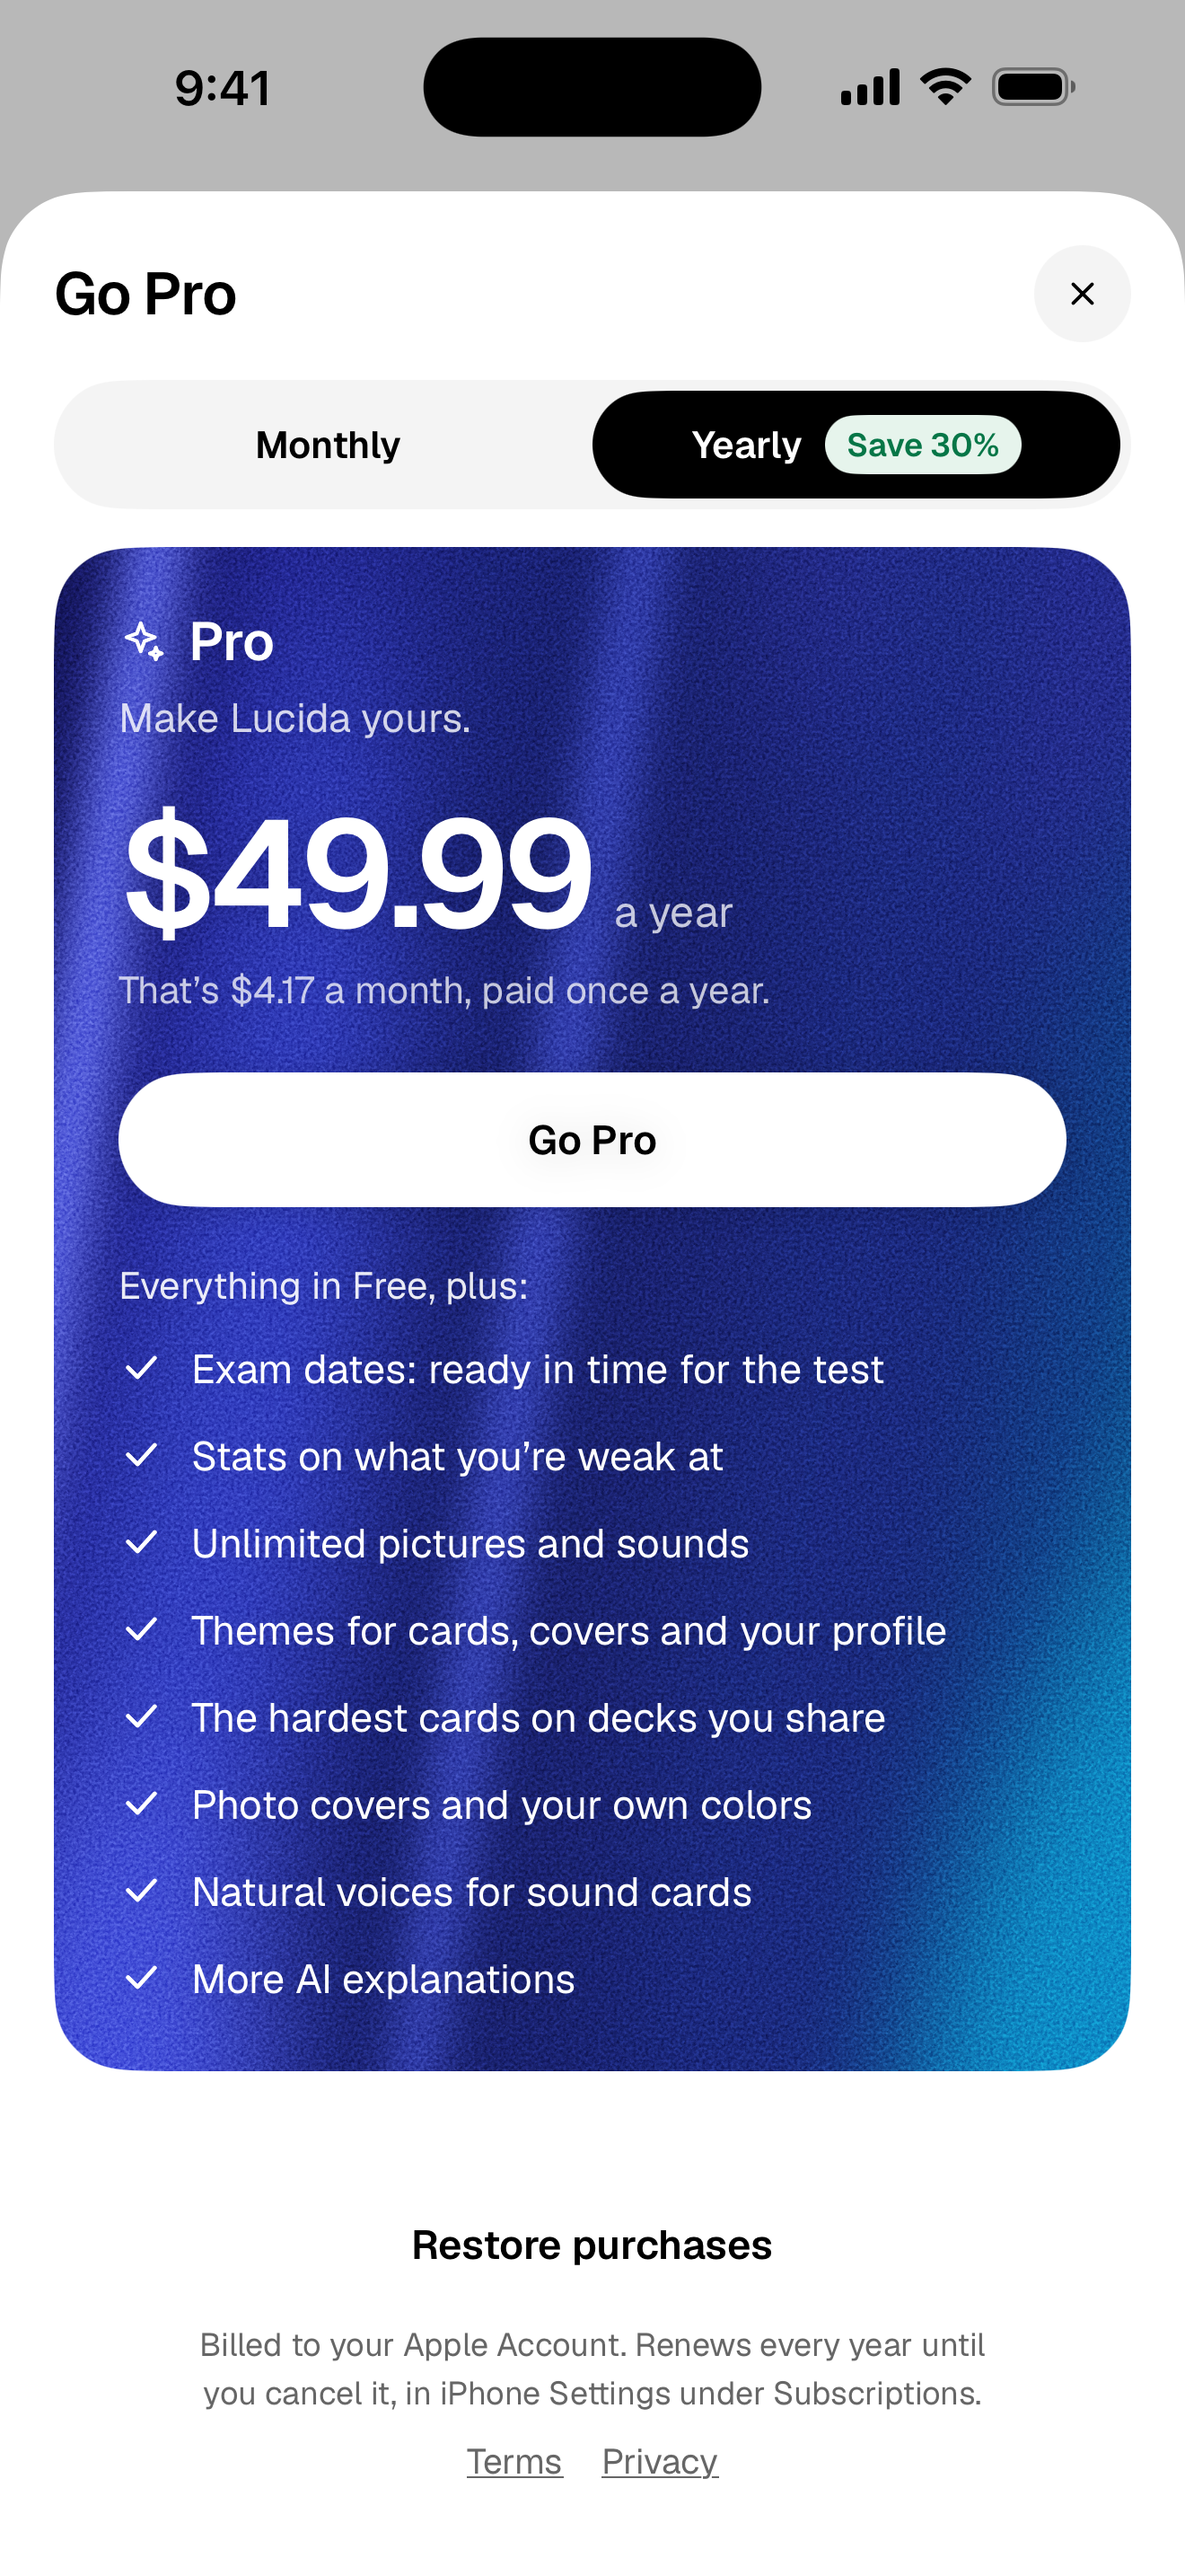
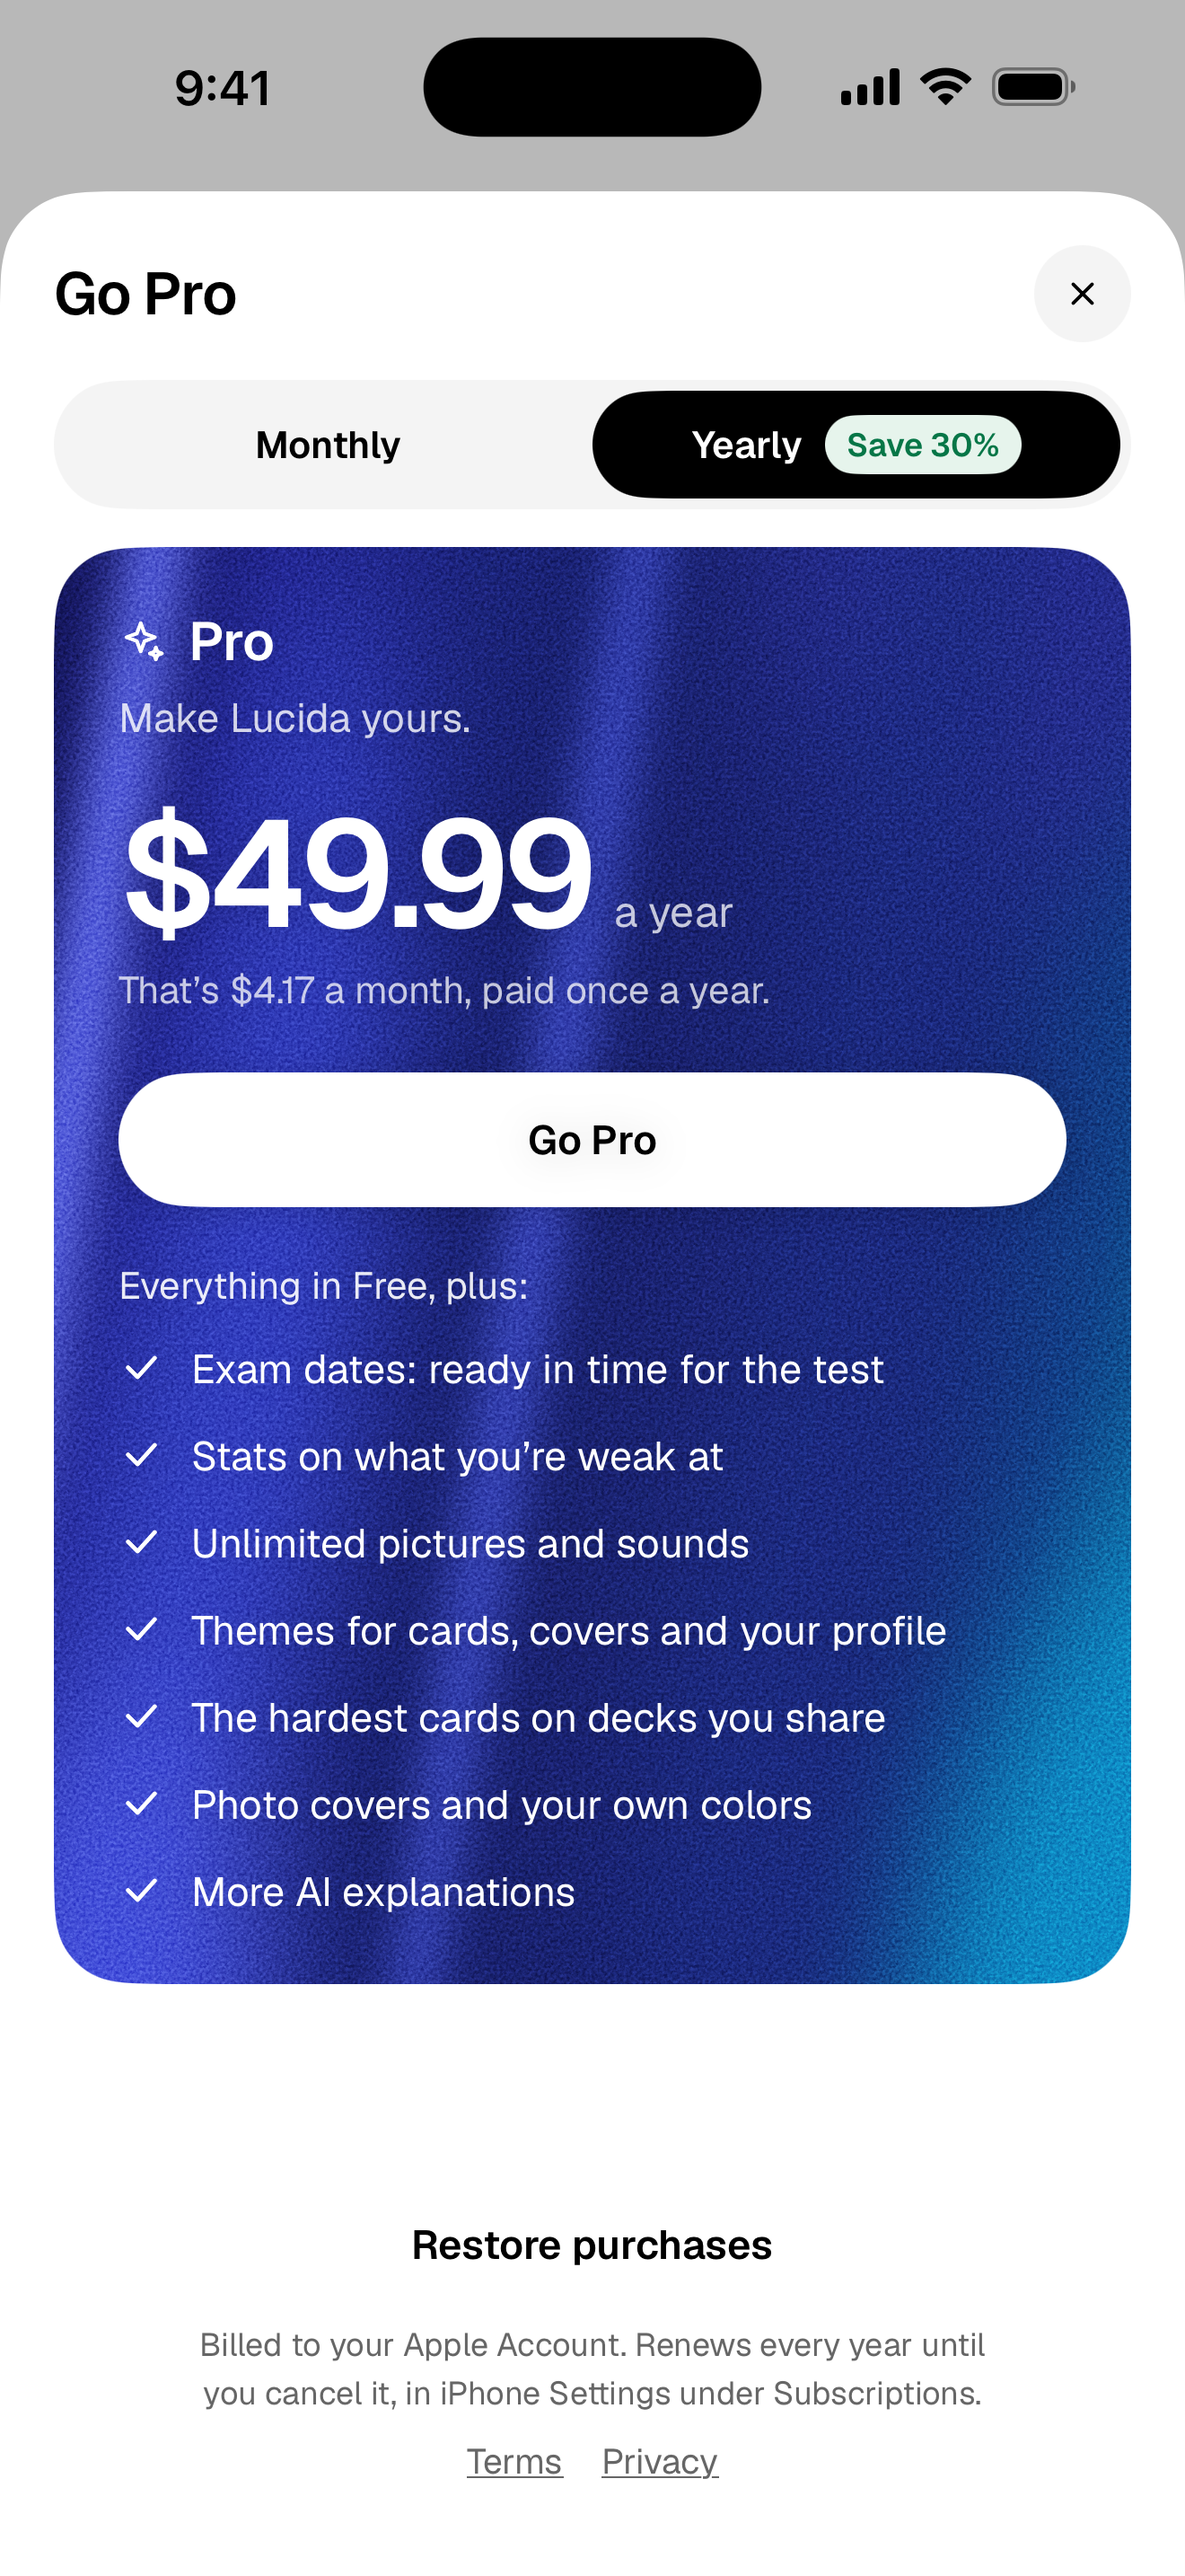
iPhone: the paywall's Pro list leaves out natural voices, and the review screenshot shows it
The app's list (Generated.proPlan) comes from the same PLAN_PRO_PHONE as the board. The store test checks that natural voices aren't on the
sheet and nothing is listed twice. 8-go-pro.png is retaken (it is the picture the owner uploads for both subscriptions); the other seven
screenshots were retaken too and match the app (the one that differs, the Learn answer, only differs in a fading shadow).

Changed region(s): [[0.0311, 0.7137, 0.9629, 0.8068]]

diff --git a/ios/Lucida/Design/Generated.swift b/ios/Lucida/Design/Generated.swift
@@ -192,8 +192,8 @@ enum Generated {
     ("swiss", "Swiss", "Swiss poster", "Swiss poster")
   ]
 
-  /// What Pro adds (the pricing page's list, design/site.mjs PLAN_PRO), for the paywall.
-  static let proPlan: [String] = ["Exam dates: ready in time for the test","Stats on what you’re weak at","Unlimited pictures and sounds","Themes for cards, covers and your profile","The hardest cards on decks you share","Photo covers and your own colors","Natural voices for sound cards","More AI explanations"]
+  /// What Pro adds on iPhone (the pricing page's list less what only the web has, design/site.mjs PLAN_PRO_PHONE), for the paywall.
+  static let proPlan: [String] = ["Exam dates: ready in time for the test","Stats on what you’re weak at","Unlimited pictures and sounds","Themes for cards, covers and your profile","The hardest cards on decks you share","Photo covers and your own colors","More AI explanations"]
 
   /// The sample sound's waveform (design/mock.mjs SAMPLE_WAVE): 96 peaks, 0 to 1.
   static let sampleWave: [Double] = [0.05,0.05,0.05,0.07,0.08,0.11,0.1,0.13,0.16,0.22,0.22,0.21,0.3,0.4,0.38,0.34,0.45,0.59,0.55,0.51,0.57,0.74,0.67,0.7,0.65,0.79,0.7,0.87,0.81,0.74,0.7,0.92,0.85,0.64,0.66,0.82,0.76,0.54,0.52,0.62,0.56,0.38,0.34,0.39,0.35,0.26,0.24,0.21,0.19,0.16,0.15,0.14,0.18,0.25,0.32,0.29,0.29,0.43,0.53,0.47,0.43,0.58,0.7,0.59,0.56,0.62,0.73,0.58,0.64,0.53,0.62,0.5,0.6,0.49,0.43,0.4,0.46,0.37,0.26,0.26,0.28,0.22,0.14,0.13,0.14,0.1,0.07,0.05,0.05,0.05,0.05,0.05,0.05,0.05,0.05,0.05]

diff --git a/ios/LucidaUITests/StoreTests.swift b/ios/LucidaUITests/StoreTests.swift
@@ -49,6 +49,7 @@ final class StoreTests: AppCase {
     check(app.buttons["goPro.pick.yearly"].label.contains("Save 30%"), "and what Yearly saves, worked out too")
     check(app.buttons["goPro.pick.yearly"].isSelected && !app.buttons["goPro.pick.monthly"].isSelected, "Yearly is the one picked")
     check(text(app, "Exam dates: ready in time for the test").exists && text(app, "More AI explanations").exists, "the pricing page’s Pro list is there")
+    check(!text(app, "Natural voices for sound cards").exists && app.staticTexts.matching(NSPredicate(format: "label == %@", "Themes for cards, covers and your profile")).count == 1, "less natural voices, which only the web has (and nothing twice)")
     check(button(app, "Restore purchases").exists && any(app, "Terms").exists && any(app, "Privacy").exists, "with Restore purchases, Terms, and Privacy")
     check(app.staticTexts["goPro.legal"].label == "Billed to your Apple Account. Renews every year until you cancel it, in iPhone Settings under Subscriptions.", "and how it renews, and where to cancel")
     app.buttons["goPro.pick.monthly"].tap()
